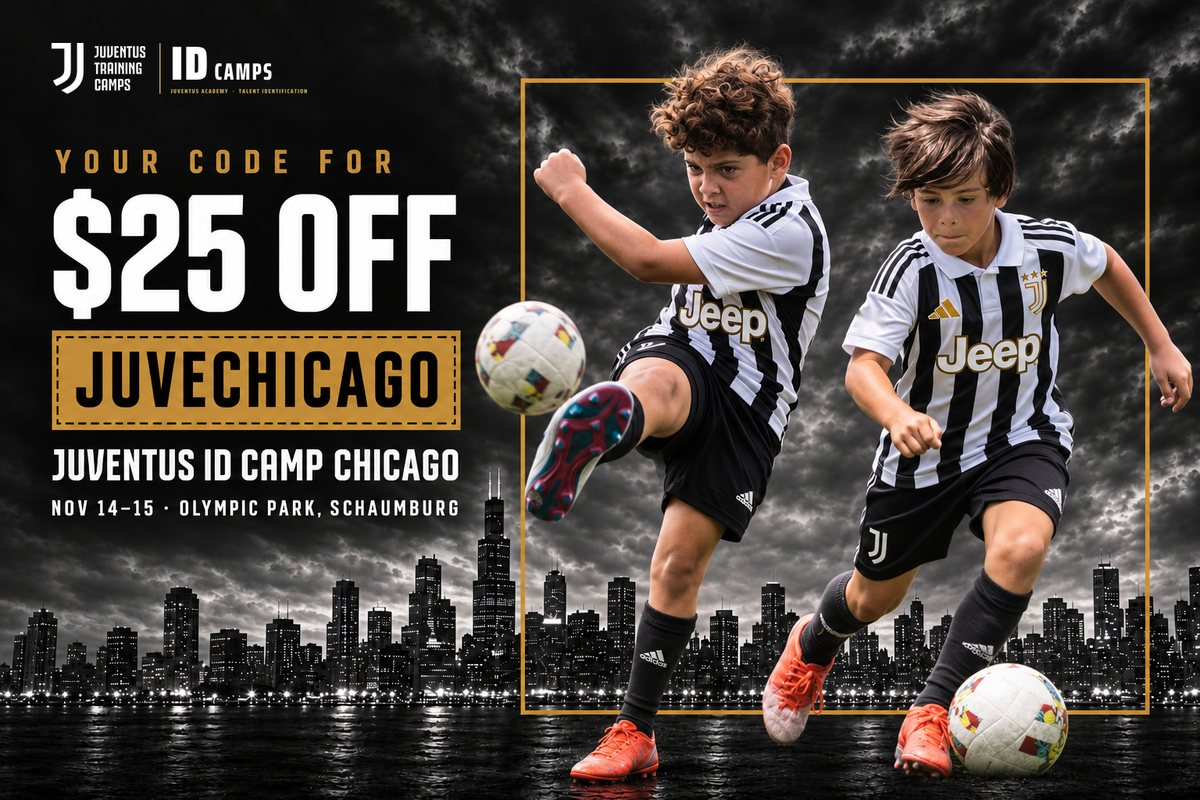
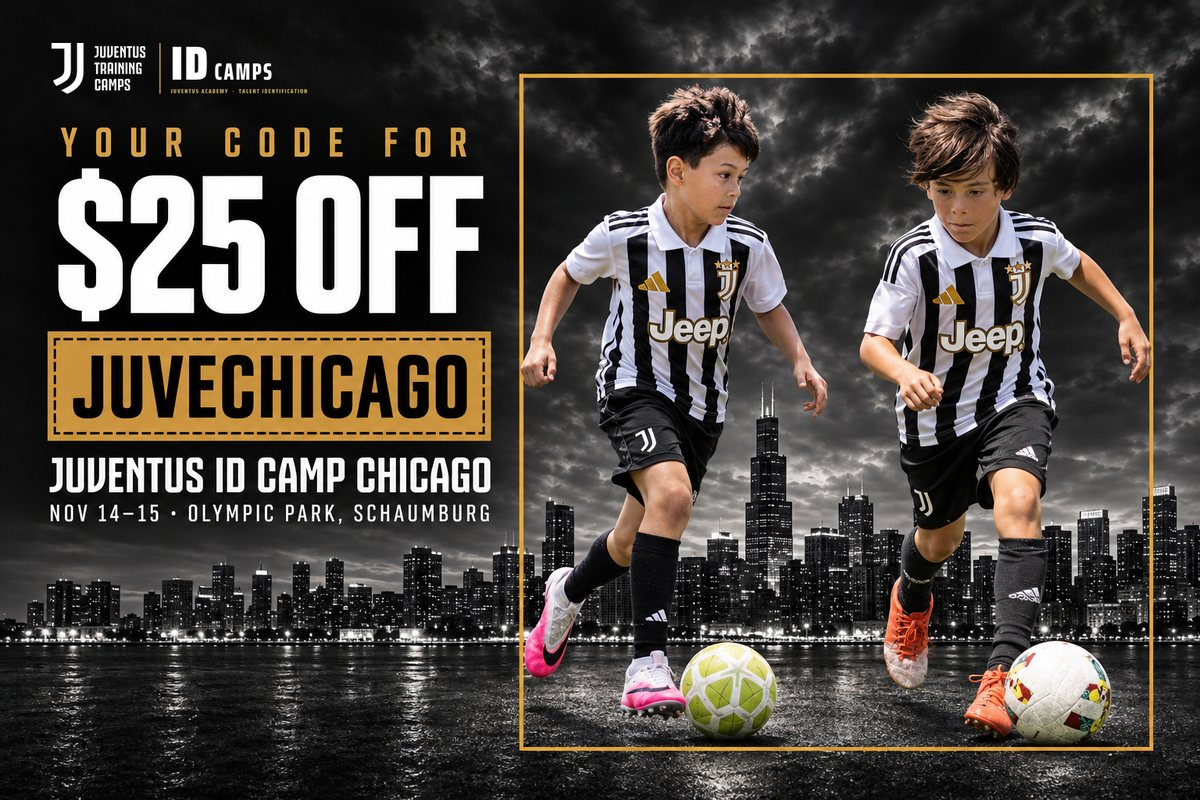
Cupon: cabecera v4 (otro nino)

diff --git a/email_chi_cupon_email.html b/email_chi_cupon_email.html
@@ -6,7 +6,7 @@
 <table role="presentation" width="100%" cellpadding="0" cellspacing="0" border="0" style="background-color:#eceae6;">
 <tr><td align="center" style="padding:16px 8px;">
 <table role="presentation" width="600" cellpadding="0" cellspacing="0" border="0" style="width:100%;max-width:600px;background-color:#ffffff;">
-<tr><td><a href="https://juventuscampsusa.com/id-camps/127/Chicago?utm_source=email&utm_medium=email&utm_campaign=idcamps_2627&utm_term=chi&utm_content=chi_cupon_email#:~:text=Register%20%2D%20Juventus%20Training%20Camps"><img src="img/cab_chi_cupon.jpg?v=3" width="600" alt="Your $25 code for the Juventus ID Camp Chicago: JUVECHICAGO" style="display:block;width:100%;max-width:600px;height:auto;border:0;margin:0;"></a></td></tr>
+<tr><td><a href="https://juventuscampsusa.com/id-camps/127/Chicago?utm_source=email&utm_medium=email&utm_campaign=idcamps_2627&utm_term=chi&utm_content=chi_cupon_email#:~:text=Register%20%2D%20Juventus%20Training%20Camps"><img src="img/cab_chi_cupon.jpg?v=4" width="600" alt="Your $25 code for the Juventus ID Camp Chicago: JUVECHICAGO" style="display:block;width:100%;max-width:600px;height:auto;border:0;margin:0;"></a></td></tr>
 <tr><td style="padding:28px 30px 6px;font-family:Arial,Helvetica,sans-serif;font-size:16px;line-height:25px;color:#111111;">
 <p style="margin:0 0 14px;">Hi Maria,</p><p style="margin:0 0 14px;">You started registering your player for the Juventus ID Camp Chicago, and we would love to see them on the field with the Juventus Academy coaches. To help you finish, here is a <b>$25 discount</b>:</p><table role="presentation" width="100%" cellpadding="0" cellspacing="0" border="0" style="margin:6px 0 18px;"><tr><td align="center" style="background-color:#111111;padding:18px 16px;"><div style="font-family:Arial,Helvetica,sans-serif;font-size:13px;letter-spacing:3px;color:#A87A2D;font-weight:bold;">YOUR CODE · $25 OFF</div><div style="margin:10px auto 8px;display:inline-block;border:2px dashed #A87A2D;padding:10px 22px;font-family:Arial,Helvetica,sans-serif;font-size:30px;letter-spacing:3px;font-weight:bold;color:#ffffff;">JUVECHICAGO</div><div style="font-family:Arial,Helvetica,sans-serif;font-size:13px;color:#dddddd;">Valid until November 8</div></td></tr></table><p style="margin:0 0 14px;"><b>How to use it:</b> open the registration, add your player and type <b>JUVECHICAGO</b> in the Coupon field before paying.</p><table role="presentation" width="100%" cellpadding="0" cellspacing="0" border="0" style="margin:4px 0 12px;"><tr><td style="font-family:Arial,Helvetica,sans-serif;font-size:16px;line-height:27px;color:#111111;"><span style="color:#A87A2D;font-weight:bold;">&#10003;</span> Two days of training with official Juventus Academy coaches from Italy<br><span style="color:#A87A2D;font-weight:bold;">&#10003;</span> Groups by age, with coaches correcting each player up close<br><span style="color:#A87A2D;font-weight:bold;">&#10003;</span> Standout players are noted for future opportunities, like the Juventus Training Experience in Italy</td></tr></table><table role="presentation" width="100%" cellpadding="0" cellspacing="0" border="0" style="margin:16px 0;"><tr><td style="background-color:#111111;padding:14px 18px;font-family:Arial,Helvetica,sans-serif;font-size:15px;line-height:26px;color:#ffffff;">&#128197; Saturday and Sunday, November 14–15 · 10 AM–2 PM<br>&#128205; Olympic Park, 1675 Old Schaumburg Rd, Schaumburg, IL 60173<br>&#9917; Boys and girls 6–16, players and goalkeepers</td></tr></table><table role="presentation" cellpadding="0" cellspacing="0" border="0" align="center" style="margin:22px auto 10px;"><tr><td align="center" bgcolor="#A87A2D" style="background-color:#A87A2D;"><a href="https://juventuscampsusa.com/id-camps/127/Chicago?utm_source=email&utm_medium=email&utm_campaign=idcamps_2627&utm_term=chi&utm_content=chi_cupon_email#:~:text=Register%20%2D%20Juventus%20Training%20Camps" style="display:inline-block;padding:15px 30px;font-family:Arial,Helvetica,sans-serif;font-size:14px;font-weight:bold;letter-spacing:1px;text-transform:uppercase;color:#111111;text-decoration:none;">Use my code &rarr;</a></td></tr></table><a href="https://juventuscampsusa.com/id-camps/127/Chicago?utm_source=email&utm_medium=email&utm_campaign=idcamps_2627&utm_term=chi&utm_content=chi_cupon_email#:~:text=Register%20%2D%20Juventus%20Training%20Camps"><img src="img/fin_juego_v2.jpg" width="540" alt="Juventus ID Camp Chicago" style="display:block;width:100%;max-width:540px;height:auto;border:0;margin:18px 0 8px;"></a>
 </td></tr>
